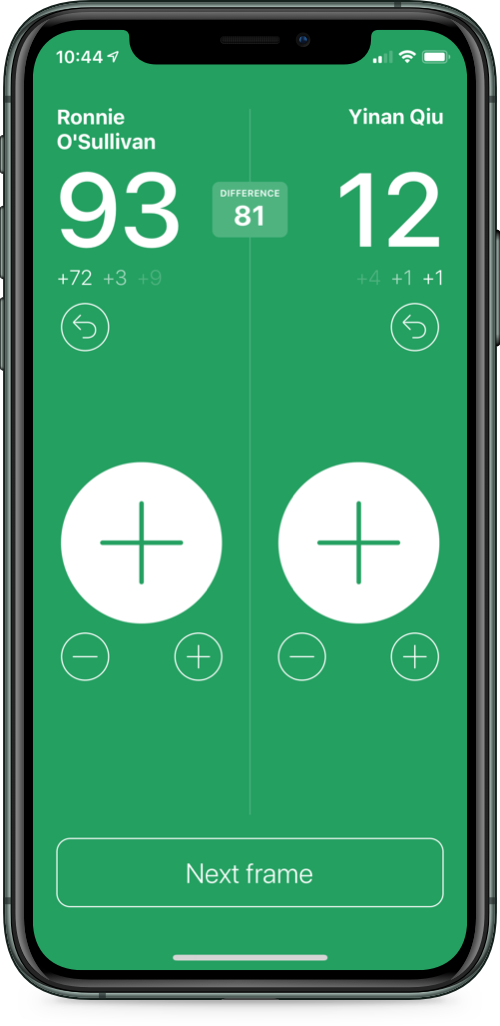
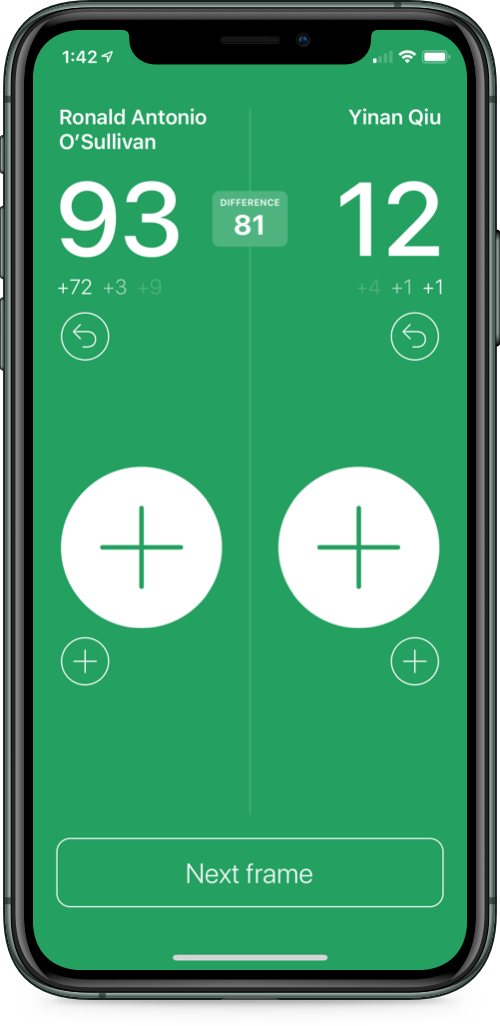
removed -1 buttons (design change)

diff --git a/Snookr/Snookr/View Controllers/ScoreboardVC.swift b/Snookr/Snookr/View Controllers/ScoreboardVC.swift
@@ -118,7 +118,7 @@ extension ScoreboardVC: UITextViewDelegate {
             return false
         } else {
             //limit length of player name:
-            let limit = 24
+            let limit = 25
             let str = (textView.text + text)
             if str.count <= limit {
                 return true

diff --git a/Snookr/Snookr/Custom Components/TextViews/SNKTextView.swift b/Snookr/Snookr/Custom Components/TextViews/SNKTextView.swift
@@ -34,7 +34,6 @@ class SNKTextView: UITextView {
         autocorrectionType = .no
         autocapitalizationType = .words
         returnKeyType = .done
-        
     }
     
 }
